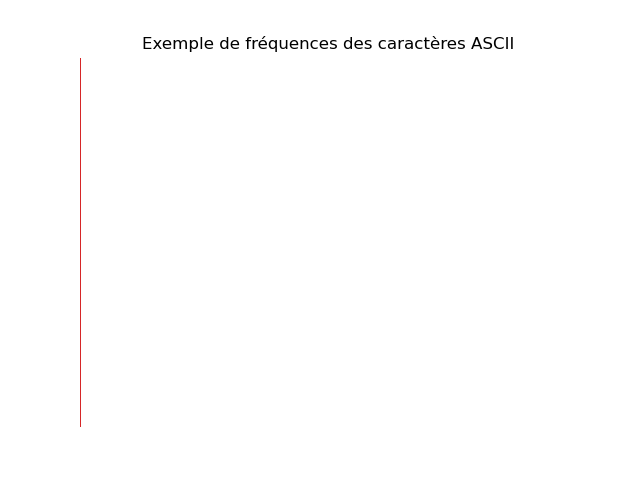
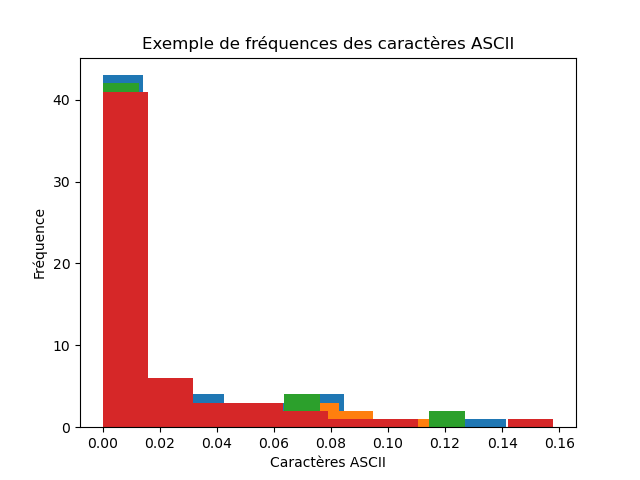
hist

diff --git a/visualization/frequency_visualization/frequency_visualisation.py b/visualization/frequency_visualization/frequency_visualisation.py
@@ -49,9 +49,7 @@ def frequency_visualization_zoom(language):
     plt.xlabel('Caractères ASCII')
     plt.ylabel('Fréquence')
 
-    plt.xlim(0, len(frequencies))
-    plt.ylim(0, 1)
-    plt.axis('off')  # Masquer les axes
+  
     plt.show()
     plt.savefig(f'/home/onyxia/work/projet_python_ds/visualization/frequency_visualization/frequencies_zoom_{language}.png')
 
